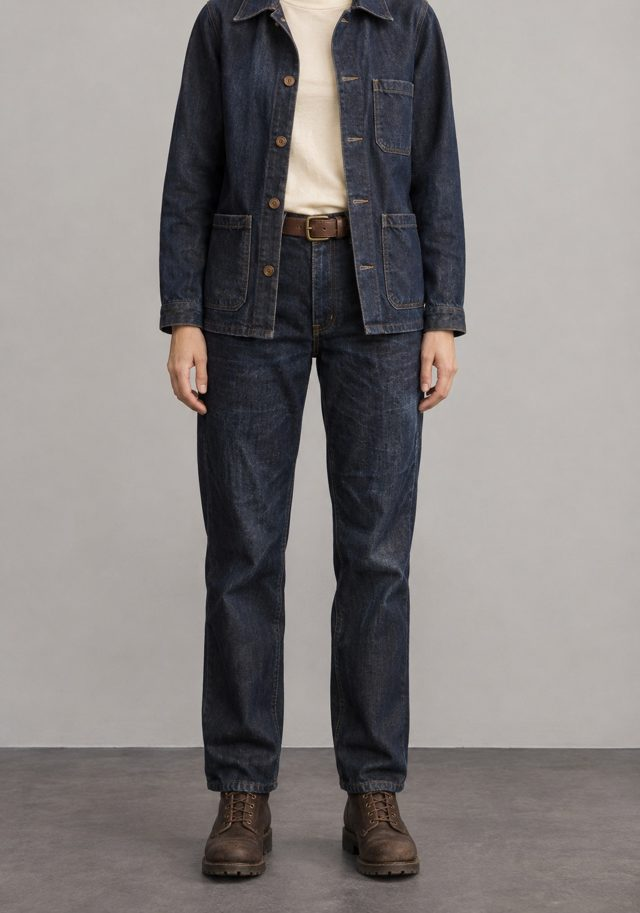
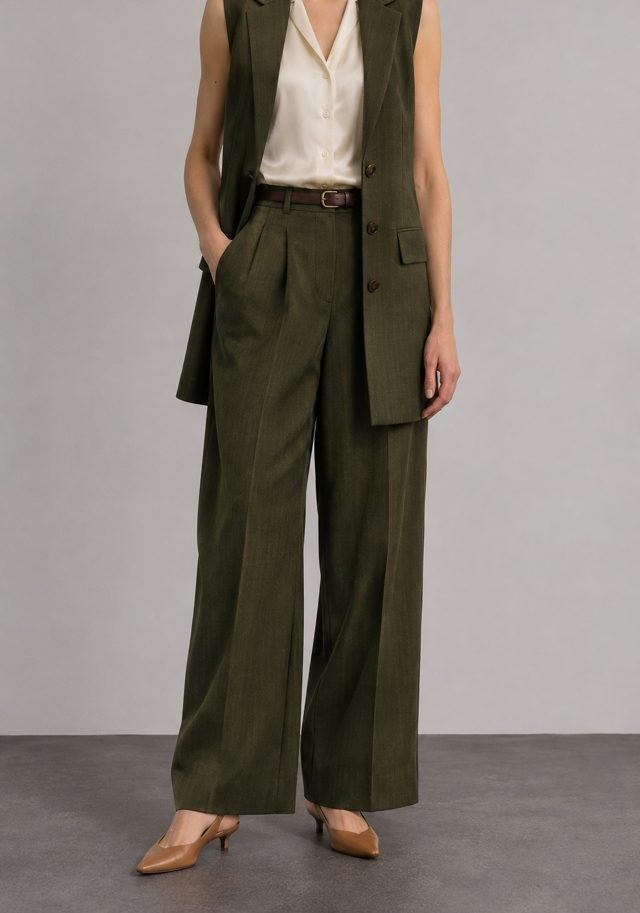
Bring proto into main: women's quiz swaps 5 menswear-looking photos (01, 04, 06, 08, 11) for neck-down womenswear shots; tags follow the new photos

Changed region(s): [[0.0, 0.0, 1.0, 1.0]]

diff --git a/src/data/diagnosis.ts b/src/data/diagnosis.ts
@@ -46,17 +46,17 @@ export const ROUNDS: DiagnosisCard[] = [
 // Original AI-generated womenswear lookbook photos (faces cropped), same studio style as menswear.
 // Tags are demo annotations; all 16 Style Types are reachable.
 export const WOMEN_ROUNDS: DiagnosisCard[] = [
-  { id: 1, image: women01, tags: "RNPF" }, // black oversized blazer, ivory knit, grey trousers
+  { id: 1, image: women01, tags: "TNPF" }, // cropped black blazer, navy satin slip dress (11/13: replaced a menswear-looking photo)
   { id: 2, image: women02, tags: "RCPF" }, // dusty-pink puff-sleeve linen midi dress
   { id: 3, image: women03, tags: "RCDS" }, // light-blue linen sundress, crochet cardigan
-  { id: 4, image: women04, tags: "TNDS" }, // indigo denim chore jacket, raw straight jeans, boots
+  { id: 4, image: women04, tags: "TCPF" }, // olive long vest, wide trousers, satin blouse (11/13: replaced a menswear-looking photo)
   { id: 5, image: women05, tags: "TCPF" }, // lilac blazer and flared midi skirt suit
-  { id: 6, image: women06, tags: "TNPS" }, // cream and navy track jacket, track pants
+  { id: 6, image: women06, tags: "RNPS" }, // navy breton stripe, white linen wide trousers (11/13: replaced a menswear-looking photo)
   { id: 7, image: women07, tags: "RCDF" }, // rust floral tiered maxi dress, suede boots
-  { id: 8, image: women08, tags: "RNDS" }, // black bomber, white tee, charcoal wide cargos
+  { id: 8, image: women08, tags: "RCDF" }, // rust blouse, floral tiered maxi skirt (11/13: replaced a menswear-looking photo)
   { id: 9, image: women09, tags: "TCDF" }, // butter-yellow cardigan, plaid pleated skirt, loafers
   { id: 10, image: women10, tags: "TCPF" }, // emerald satin slip dress
-  { id: 11, image: women11, tags: "TCDS" }, // green shell jacket, charcoal knit, black trousers
+  { id: 11, image: women11, tags: "TCDF" }, // burgundy cardigan, plaid pleated skirt, loafers (11/13: replaced a menswear-looking photo)
   { id: 12, image: women12, tags: "RNPS" }, // denim jacket, white tee, ecru wide jeans
 ];
 
